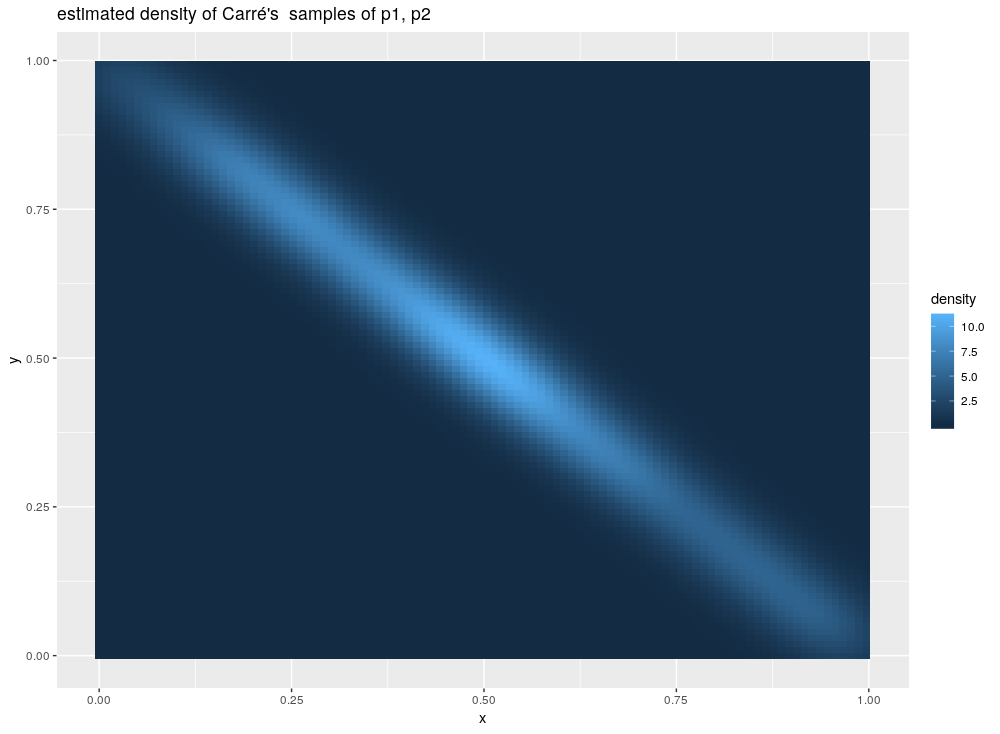
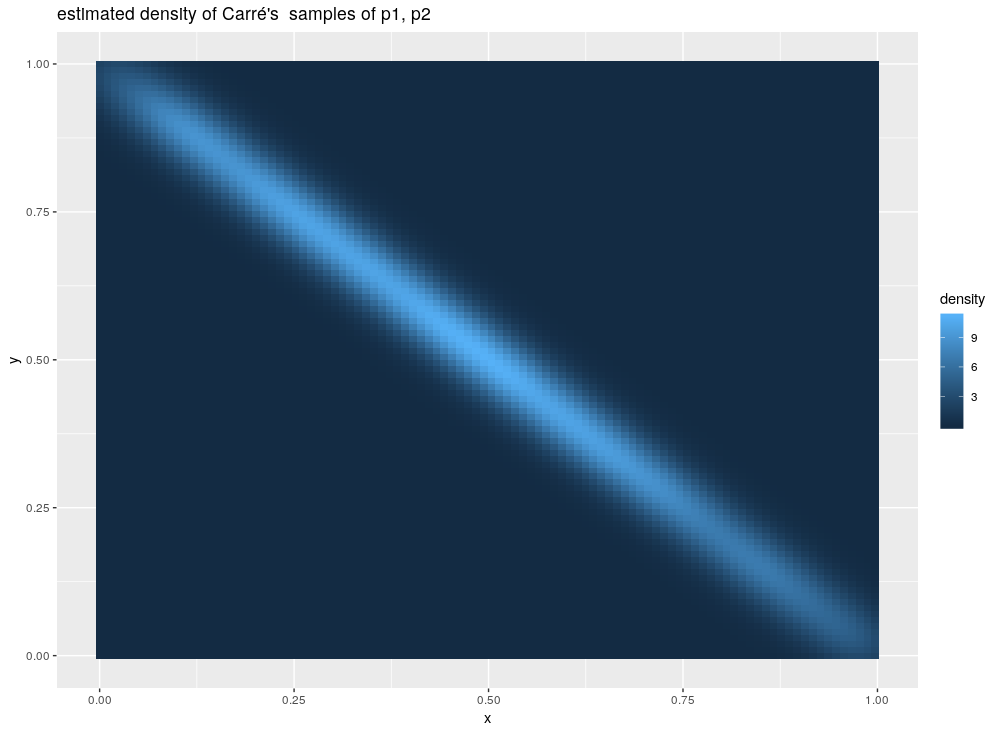
- shows numerically that most approaches for constrained sampling are biased

diff --git a/writeUp/Chapters/metropolis_hastings.tex b/writeUp/Chapters/metropolis_hastings.tex
@@ -61,7 +61,7 @@ All of those parameters are constrained:
 
 When choosing a new proposal $\tilde{\Theta}$ from the current sample $\Theta$, with a step sampled from a normal distribution, it is not immediately clear how to ensure that the new proposal satisfies the constraints. 
 
-The easiest option is to simply reject all samples which are not valid. Note that this may lead to a high rejection-rate - especially in high-dimensional problems, the rejection-rate can become prohibitively high. Hence, we are going to present a number of alternative options below. 
+The easiest option is to simply reject all samples which are not valid. While incurring a high rejection rate\footnote{Which can be prohibitively high for high-dimensional problems}, this methodology becomes unfeasible if we consider constraints as in (1) above. 
 
 
 \subsubsection*{Natural and Working Parameters}
@@ -96,6 +96,17 @@ Let $p \in [0,1]$ be a parameter and $s: [0,1] \rightarrow \R$ be a function map
 			\EndIf
 	\end{algorithmic}
 }
+
+\begin{figure}
+	\centering
+	\includegraphics[height = 0.3\textheight]{img/bumpItBaby.png}
+	\caption{Sampling of $p \in [0,1]$ with bumping method and $\sigma= 0.1$ for $200$ chains with each $200$ samples. }
+	\label{fig:bumpingIsUniform}
+\end{figure}
+
+Figure \ref{fig:bumpingIsUniform} shows that sampling with the bumping method does indeed uniformly cover the interval $[0,1]$\footnote{Note that as the sample size increases, the distribution continues to converge towards the uniform distribution. This has been confirmed generating several histograms and verifying that the overall shape attained is consistently almost constant.}
+As we shall see, this is not true for many other methods. 
+
 We note the following:
 \begin{enumerate}
 	\item the interval can easily be generalised
@@ -159,14 +170,14 @@ Specifically, we have
 		\nd{a} + U[0, 1] \left(\nd{b} - \nd{a}\right) \sim \nd{\tx} \\
 		\Phi^{-1} \left(
 			\nd{a} + U[0, 1] \left(\nd{b} - \nd{a}\right)
-		\right)
+		\right) \, \sigma + \mu
 		&\sim \tx
 \end{align*}
 where $\tx = \tx \, | \, \tx \in [a, b]$ for the last few lines for notational convenience. 
 
 Note that this method of sampling can be expressed in R very concisely as 
 \begin{verbatim}
-	x = qnorm(  pnorm(a,mu,sigma) + runif(1)*(pnorm(b,mu,sigma) - pnorm(a,mu,sigma))  
+	x = qnorm(  pnorm(a,mu,sigma) + runif(1)*(pnorm(b,mu,sigma) - pnorm(a,mu,sigma))  * sigma + mu
 \end{verbatim}
 
 Note that sampling methods which do not involve $\Phi$ or $\Phi^{-1}$ are also available: notably, Robert\cite{Robert95simulationof} proposes a method based on Rejection-Sampling.
@@ -187,7 +198,15 @@ Note that sampling methods which do not involve $\Phi$ or $\Phi^{-1}$ are also a
 }
 
 However, numerical experiments with R have shown that the sampling using the approximative method presented is faster than the Rejection Sampling proposed by Roberts. 
+
+
+\begin{figure}
+	\includegraphics[width=\linewidth]{img/truncatedNormalAlsoBiased.png}
+	\caption{Samples drawn using truncated normal distribution as proposal; 200 chains with 200 samples each, $\sigma = 0.1$}
+	\label{fig:truncatedAlsoBiased}
+\end{figure}
  
+ Unfortunately, as figure \ref{fig:truncatedAlsoBiased} shows, sampling with the truncated normal distribution method also introduces bias as the samples are not uniformly distributed. 
 
 % R code for sampling:
 % x = qnorm(  pnorm(a,mu,sigma) + runif(1)*(pnorm(b,mu,sigma) - pnorm(a,mu,sigma))  
@@ -237,7 +256,7 @@ where $X \sim \mathcal{N}(0, \sigma)$.
 	 \]
 	 as the new proposed value. Cappé suggests to further use $Exp(1)$-priors on $p_i^{\prime}$. 
 	 
-	 Note that - just as noted above, the resulting distributions are \textit{biased}. 
+	 Note that - just as noted above, the resulting distributions are heavily \textit{biased}. Fig \ref{fig:carre_p1_p2_hist} and \ref{fig:carre_p1p2_estimated_dens} show estimated densities and histograms of $p1, p2 \in [0,1]$ with $p1 + p2 = 1$ sampled with $100$ chains each having $100$ steps and $\sigma = 0.1$. Please note that the sample is biased regardless of whether the proposed priors are used or not. Hence, this method of drawing numbers has an \textit{inherent prior} which will distort any extra, intended prior that could be defined in addition. 
 	 
 	 
  
@@ -246,14 +265,16 @@ where $X \sim \mathcal{N}(0, \sigma)$.
 	 	\begin{minipage}{0.45\linewidth}
 	 		\begin{figure}[H]
 	 				\includegraphics[width=0.9\linewidth]{img/carre_estimated_density_p1_p2.png}
-	 			\caption{The estimated density of the samples p1, p2 drawn by Carré's method. The samples are clearly biased towards the middle and not uniformly distributed}
+	 			\caption{The estimated density of the samples p1, p2 drawn by Carré's method (200 chains, 200 steps, $\sigma = 0.1$). The samples are clearly biased towards the middle and not uniformly distributed}
+	 			\label{fig:carre_p1p2_estimated_dens}
 	 		\end{figure}
 	 	\end{minipage}
 	 	\hspace{0.05\linewidth}
 	 	\begin{minipage}{0.45\linewidth}
 	 		\begin{figure}[H]
 	 				\includegraphics[width=0.9\linewidth]{img/carre_p1_p2_hists.png}
-	 			\caption{The estimated histograms of the samples p1, p2 drawn by Carré's method. The samples are clearly biased towards the middle and not uniformly distributed}
+	 			\caption{The estimated histograms of the samples p1, p2 drawn by Carré's method (200 chains, 200 steps, $\sigma = 0.1$). The samples are clearly biased towards the middle and not uniformly distributed}
+	 			\label{fig:carre_p1_p2_hist}
 	 		\end{figure}
 	 	\end{minipage}
 	 \end{minipage}
